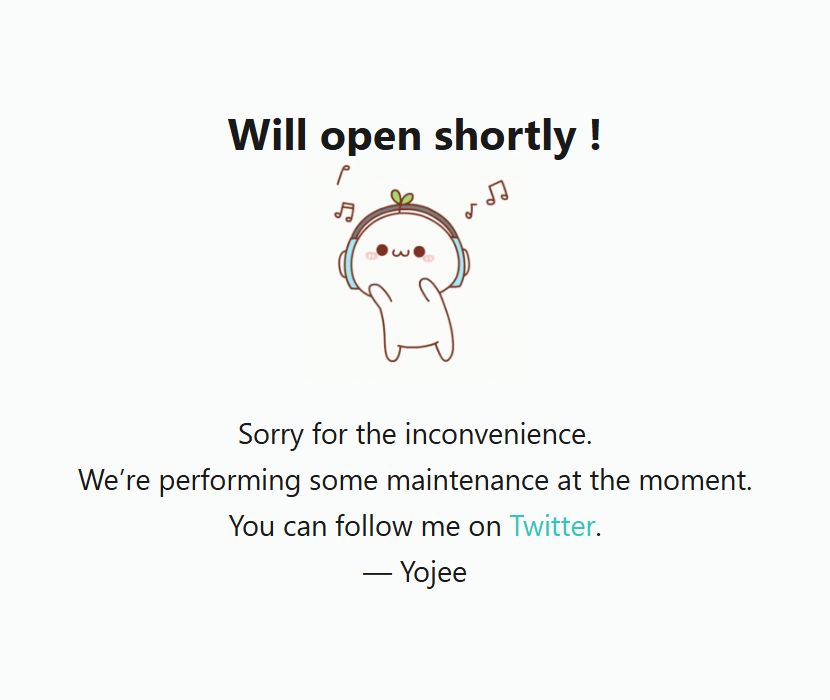
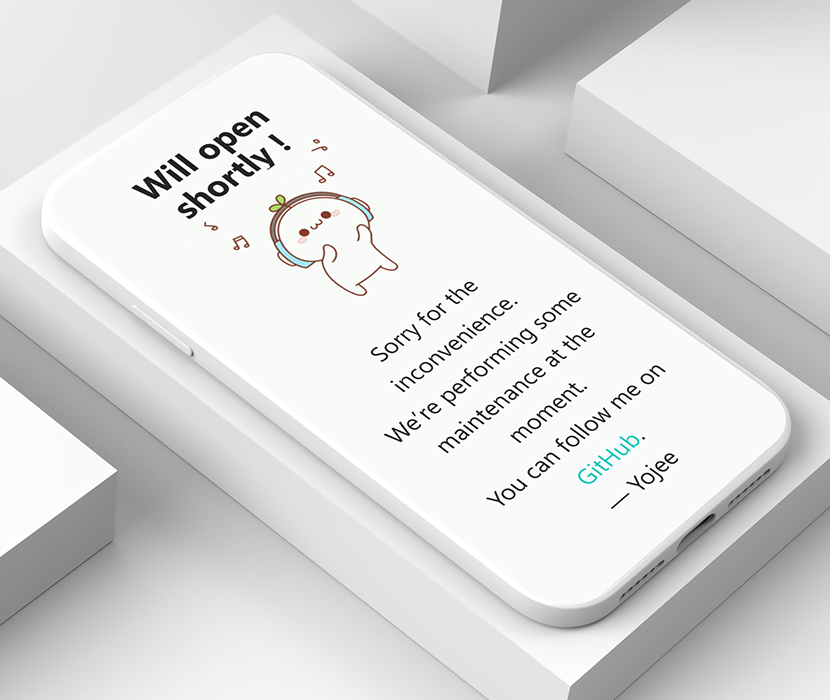
new

diff --git a/404.html b/404.html
@@ -33,7 +33,7 @@
       <div>
         <p>Sorry for the inconvenience.</p>       
         <p>We&rsquo;re performing some maintenance at the moment.</p>
-        <p>You can follow me on <a href="http://www.twitter.com/yojeero">Twitter</a>.</p>
+        <p>You can follow me on <a href="https://github.com/yojeero">GitHub</a>.</p>
         <p>&mdash; Yojee</p>
       </div>
 
